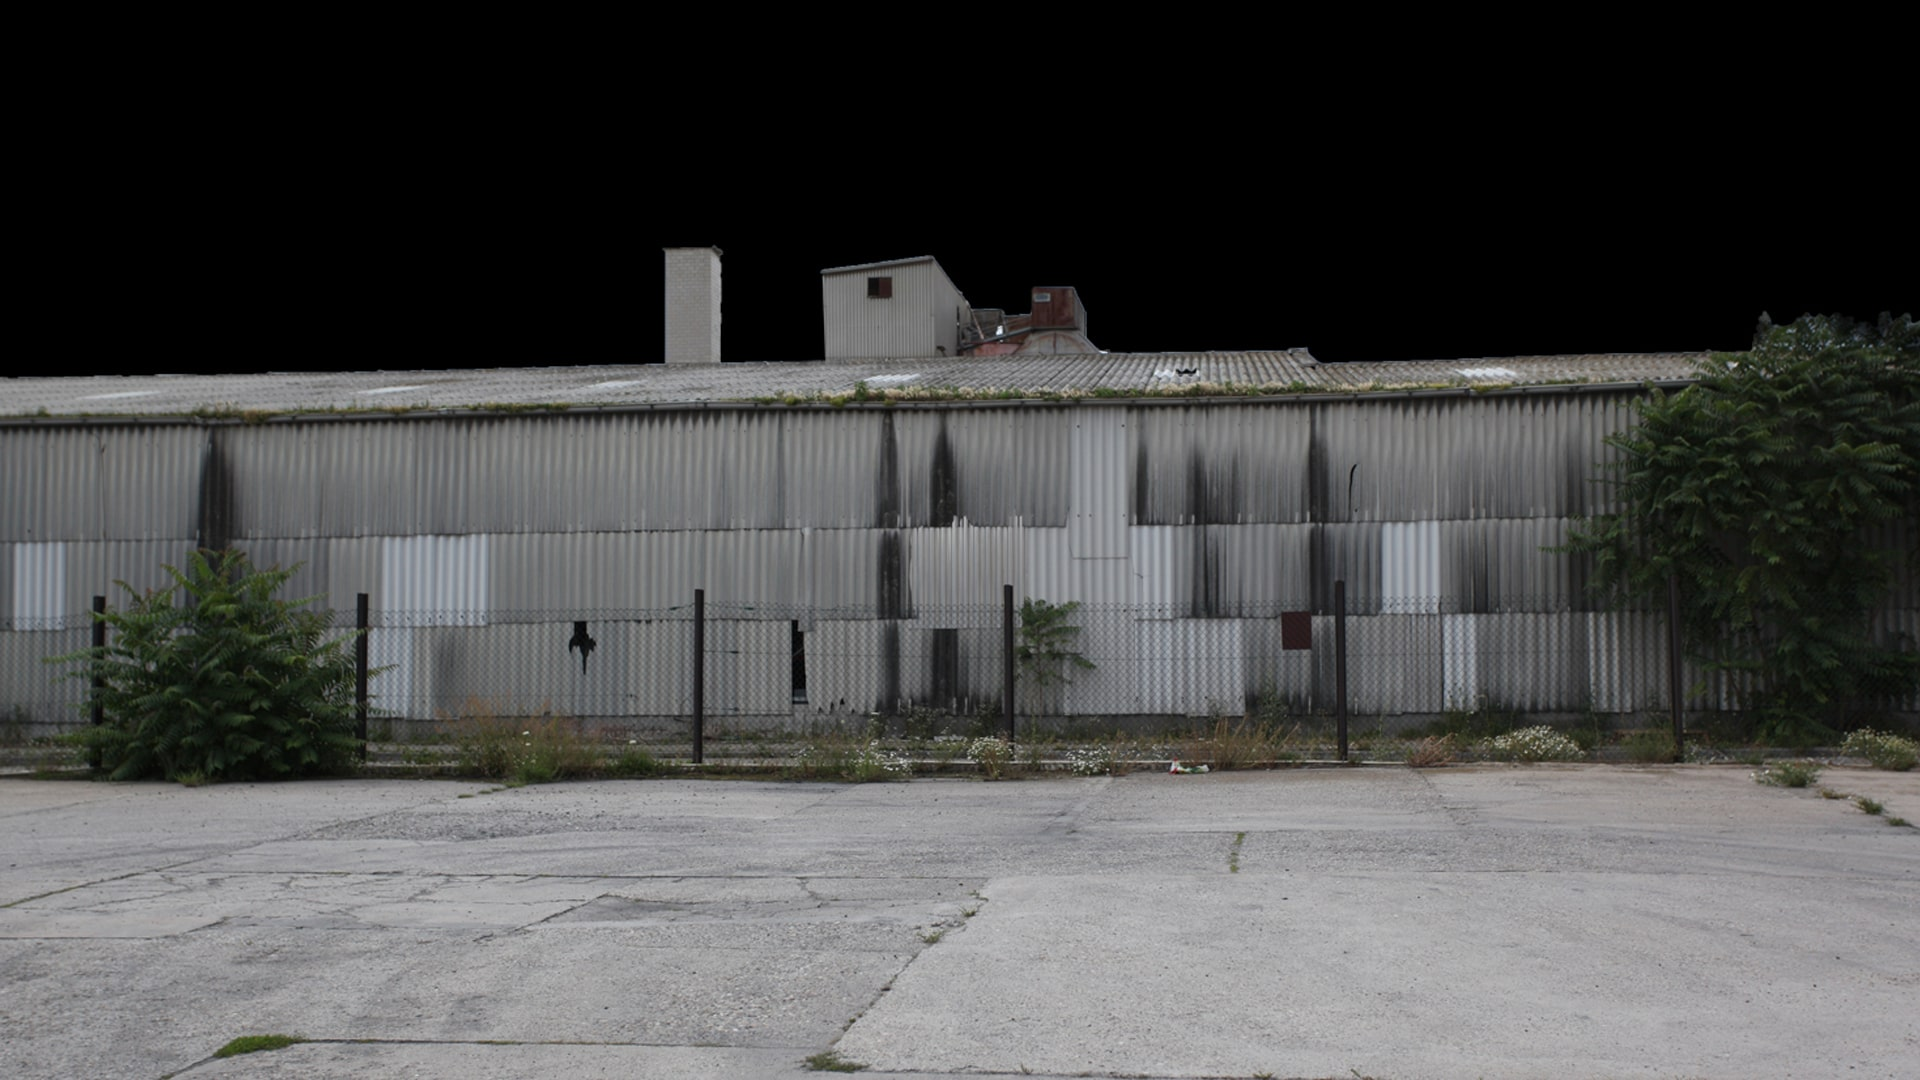
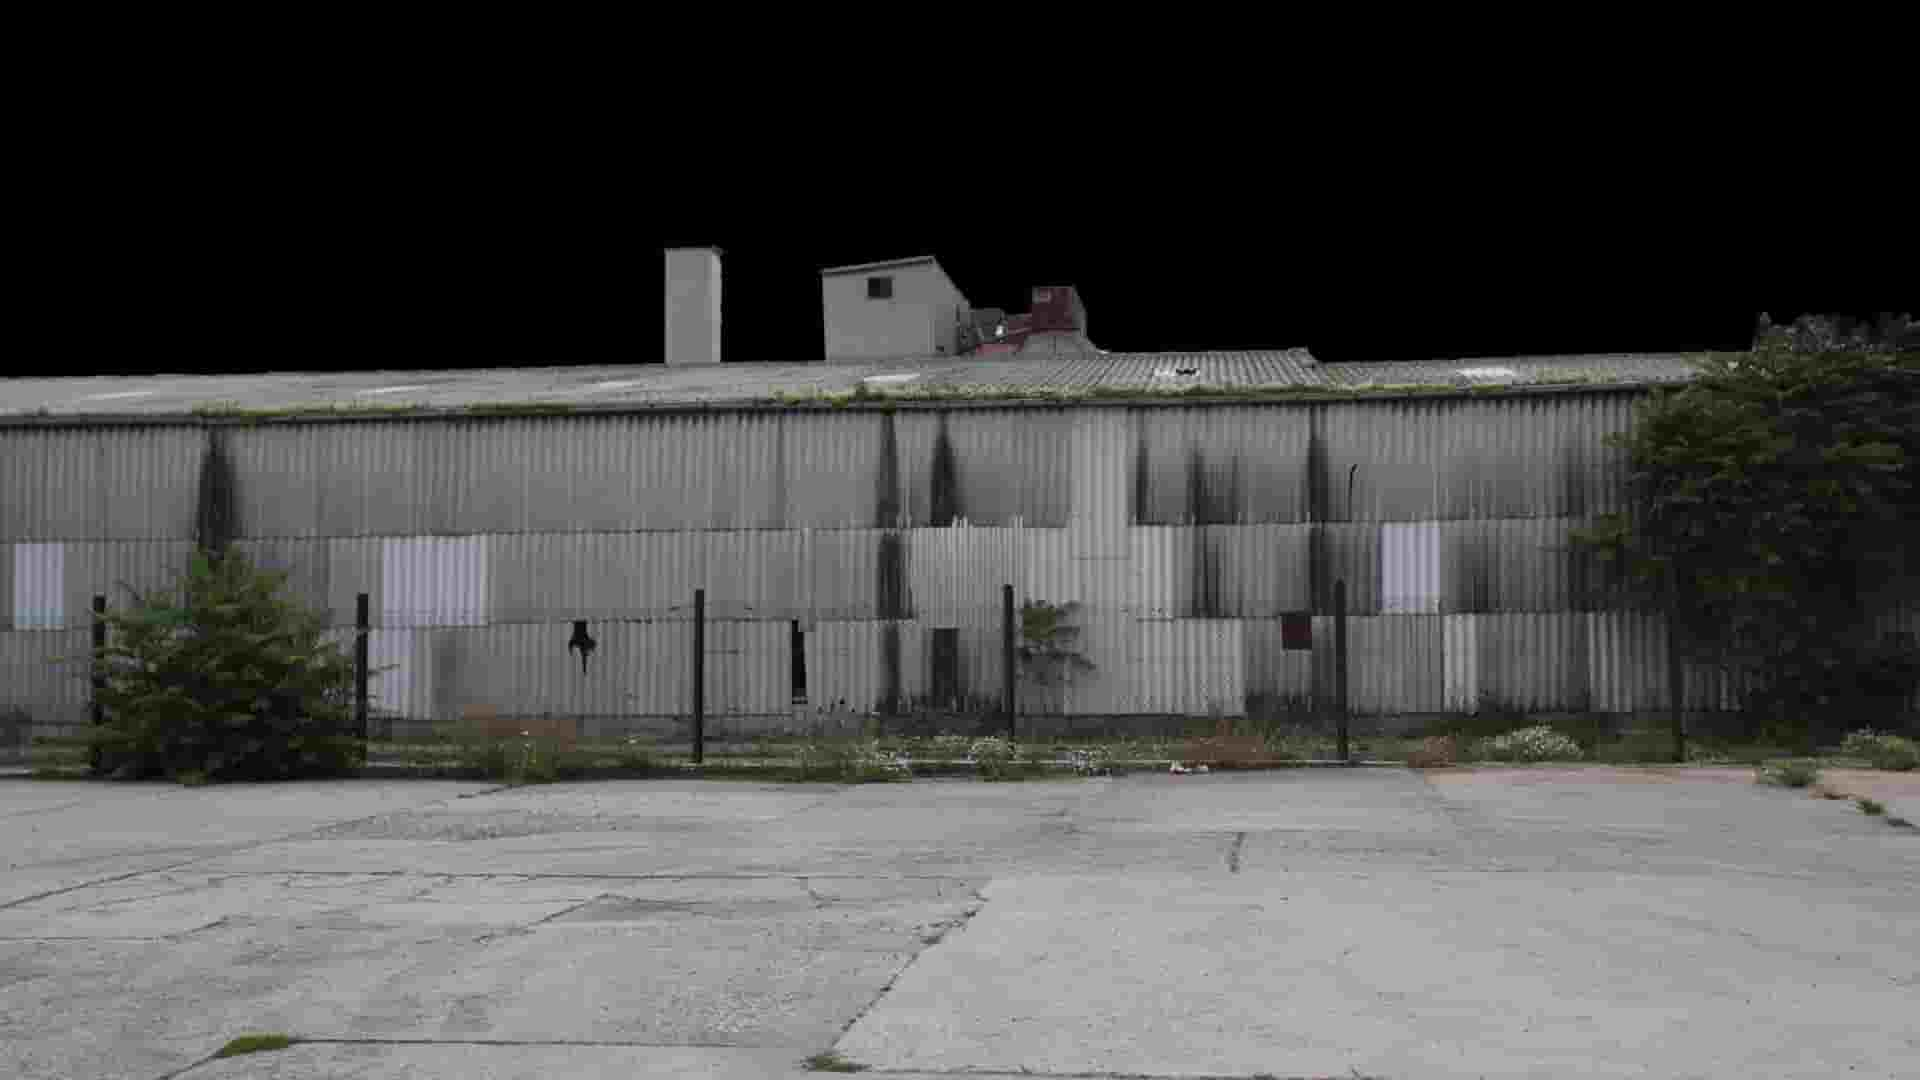
feat_update image optimization

diff --git a/src/components/_portfolio/components/Gallery3Col/gallery.tsx b/src/components/_portfolio/components/Gallery3Col/gallery.tsx
@@ -394,7 +394,7 @@ export default component$(() => {
 								/>
 								<img
 									class="gallery__images-slider"
-									src="../../../assets/images/photography/blacker/photography_blackerthandays_003.jpg"
+									src="../../../assets/images/photography/blacker/photography_blackerthandays_003-min.jpg"
 									alt=""
 									width={800}
 									height={800}
@@ -449,11 +449,11 @@ export default component$(() => {
 					<div class={['', 'gallery__rowsImage']}>
 						<div
 							class="gallery__item-img"
-							style="background-image:url(../../../assets/images/photography/blacker/photography_blackerthandays_003.jpg);"
+							style="background-image:url(../../../assets/images/photography/blacker/photography_blackerthandays_003-min.jpg);"
 						></div>
 						<div
 							class="gallery__item-img"
-							style="background-image:url(../../../assets/images/photography/blacker/photography_blackerthandays_005.jpg);"
+							style="background-image:url(../../../assets/images/photography/blacker/photography_blackerthandays_005-min.jpg);"
 						></div>
 					</div>
 				</div>

diff --git a/src/components/_portfolio/blacker/blacker.tsx b/src/components/_portfolio/blacker/blacker.tsx
@@ -49,7 +49,7 @@ export const GalleryStatic = component$(() => {
 			</div>
 			<div class="column large-3">
 				<img
-					src="../../assets/images/photography/blacker/photography_blackerthandays_005.jpg"
+					src="../../assets/images/photography/blacker/photography_blackerthandays_005-min.jpg"
 					alt=""
 					width={800}
 					height={800}
